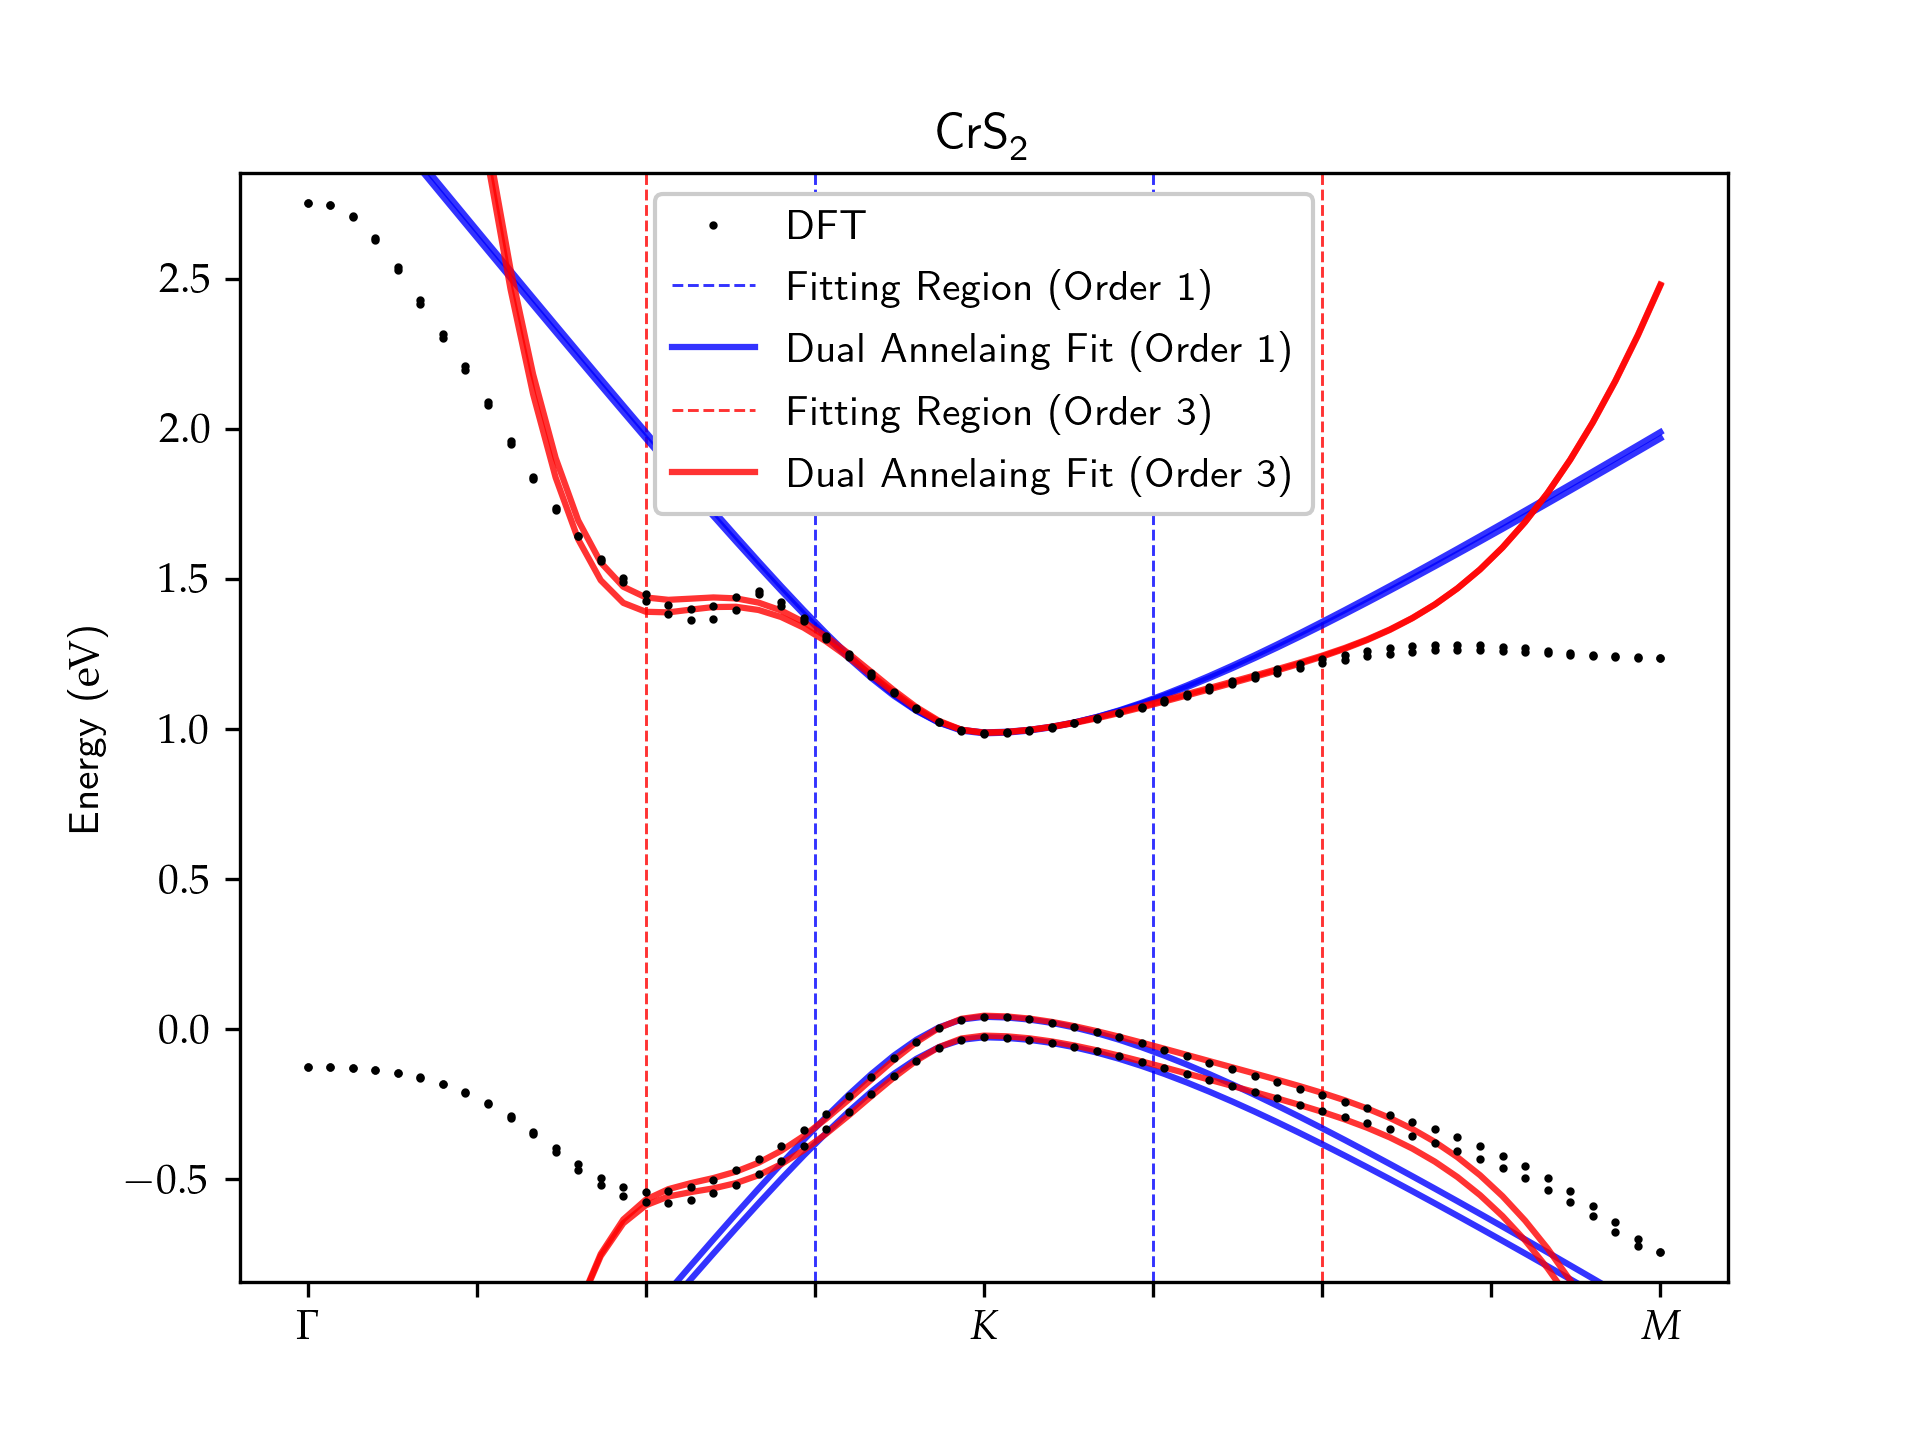
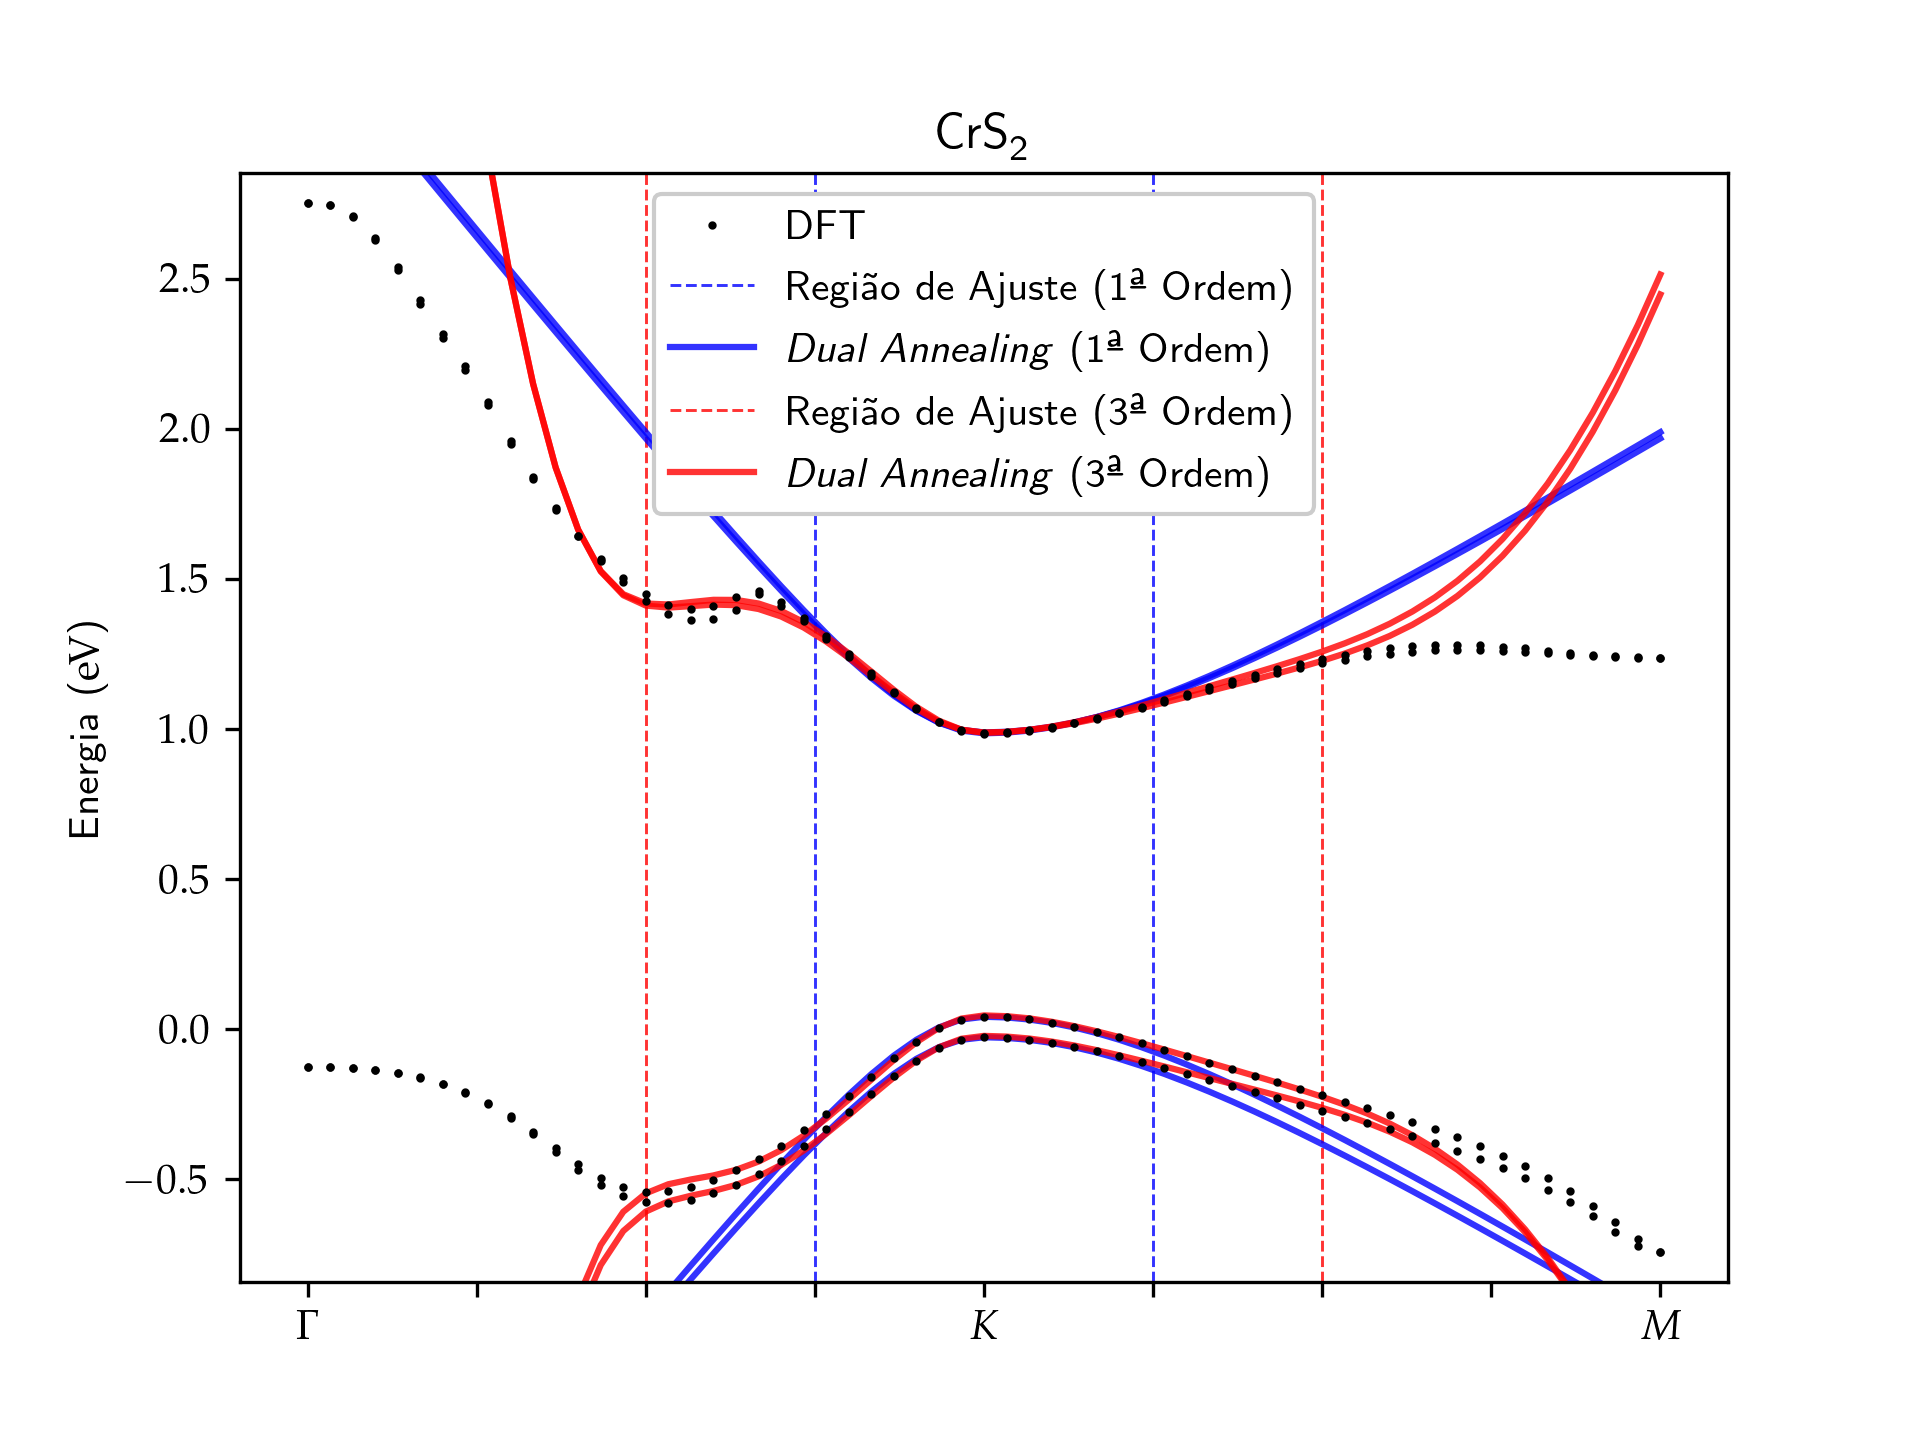
Translating labels to portuguese

diff --git a/main.py b/main.py
@@ -481,7 +481,7 @@ if __name__ == "__main__":
                 ga = gas[best_index]
 
                 # Data used in the plot
-                label = "GA Fit"
+                label = "Algoritmo Genético"
                 params = ga.best()[0].pos
                 sorted_eigenvalues = get_energies(
                     ks, ham_factory=ham_factory, params=(lattice, *params)
@@ -511,7 +511,7 @@ if __name__ == "__main__":
                     results = [promise.get() for promise in promises]
 
                 # Data used in the plot
-                label = "Dual Annelaing Fit"
+                label = r"\textit{Dual Annealing}"
                 func_values = [result.fun for result in results]
                 best_func_value = min(func_values)
                 best_index = func_values.index(best_func_value)
@@ -537,7 +537,7 @@ if __name__ == "__main__":
 
         ax.set(
             title=title,
-            ylabel=r"Energy (\si{\eV})",
+            ylabel=r"Energia (\si{\eV})",
             ylim=ylim,
         )
 
@@ -566,7 +566,7 @@ if __name__ == "__main__":
                 alpha=0.8,
                 linestyles="dashed",
                 linewidths=0.7,
-                label=f"Fitting Region (Order {order})",
+                label=f"Região de Ajuste ({order}ª Ordem)",
                 zorder=-2,
             )
 
@@ -575,7 +575,7 @@ if __name__ == "__main__":
                 sorted_eigenvalues,
                 color=color,
                 alpha=0.8,
-                label=label + f" (Order {order})",
+                label=label + f" ({order}ª Ordem)",
                 zorder=-1,
             )
 
